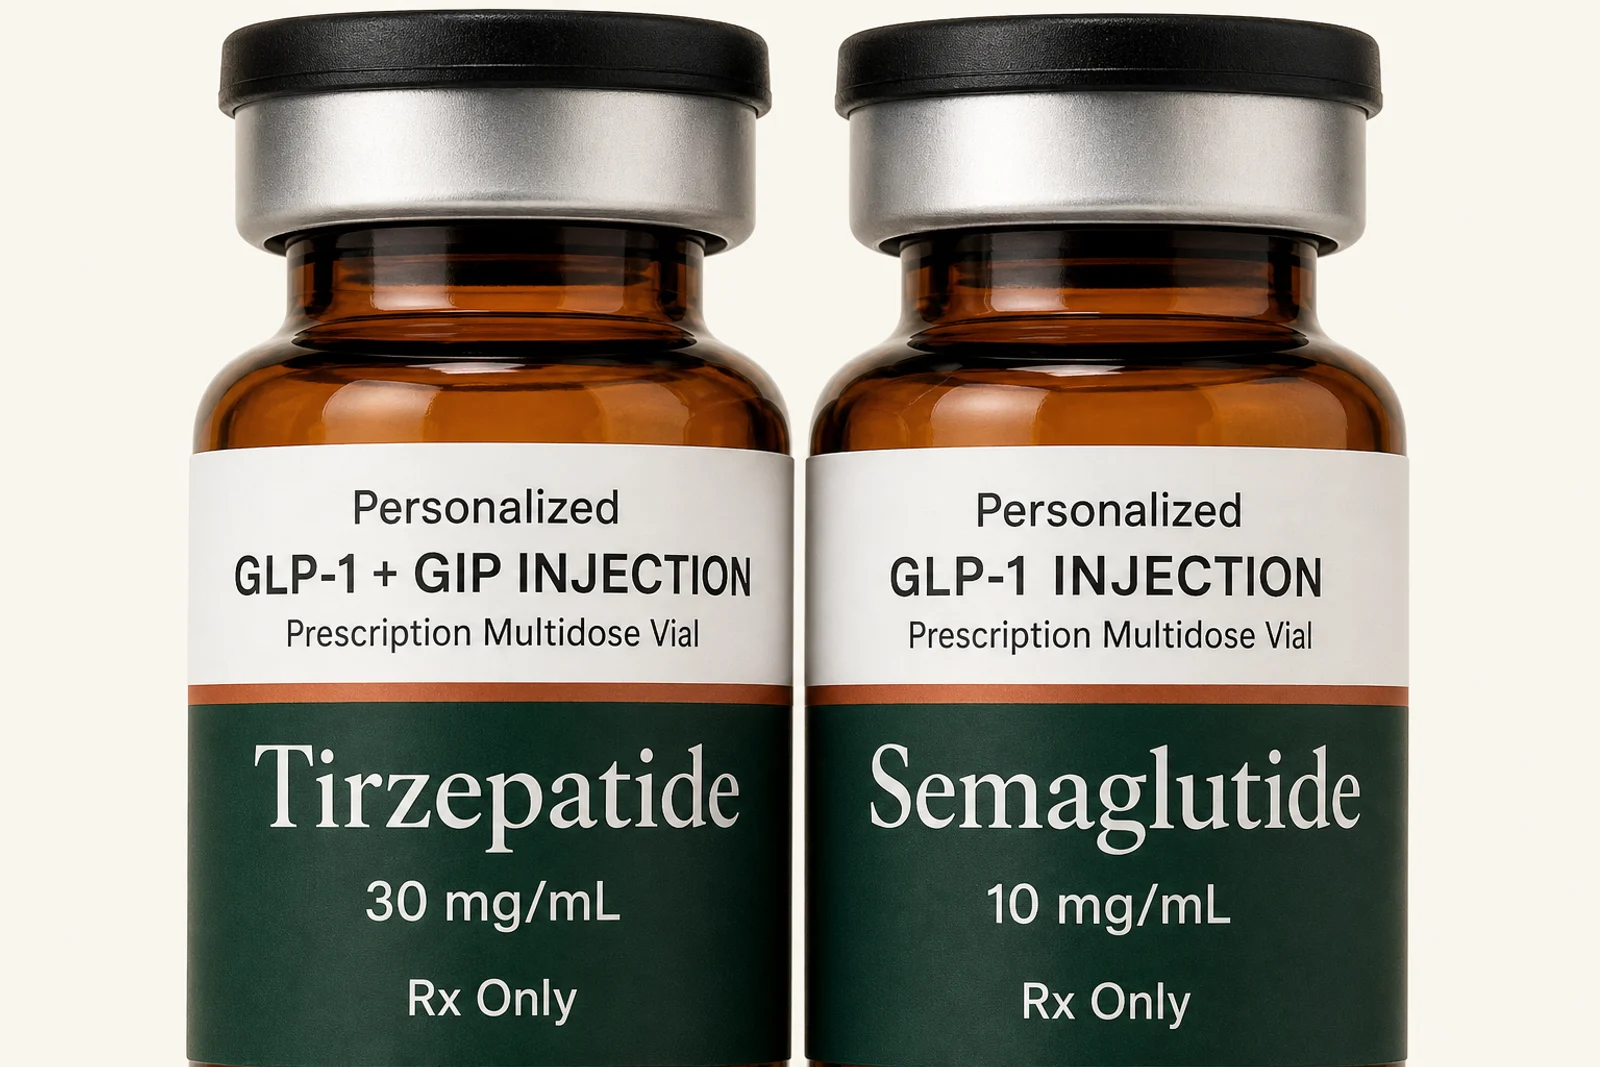
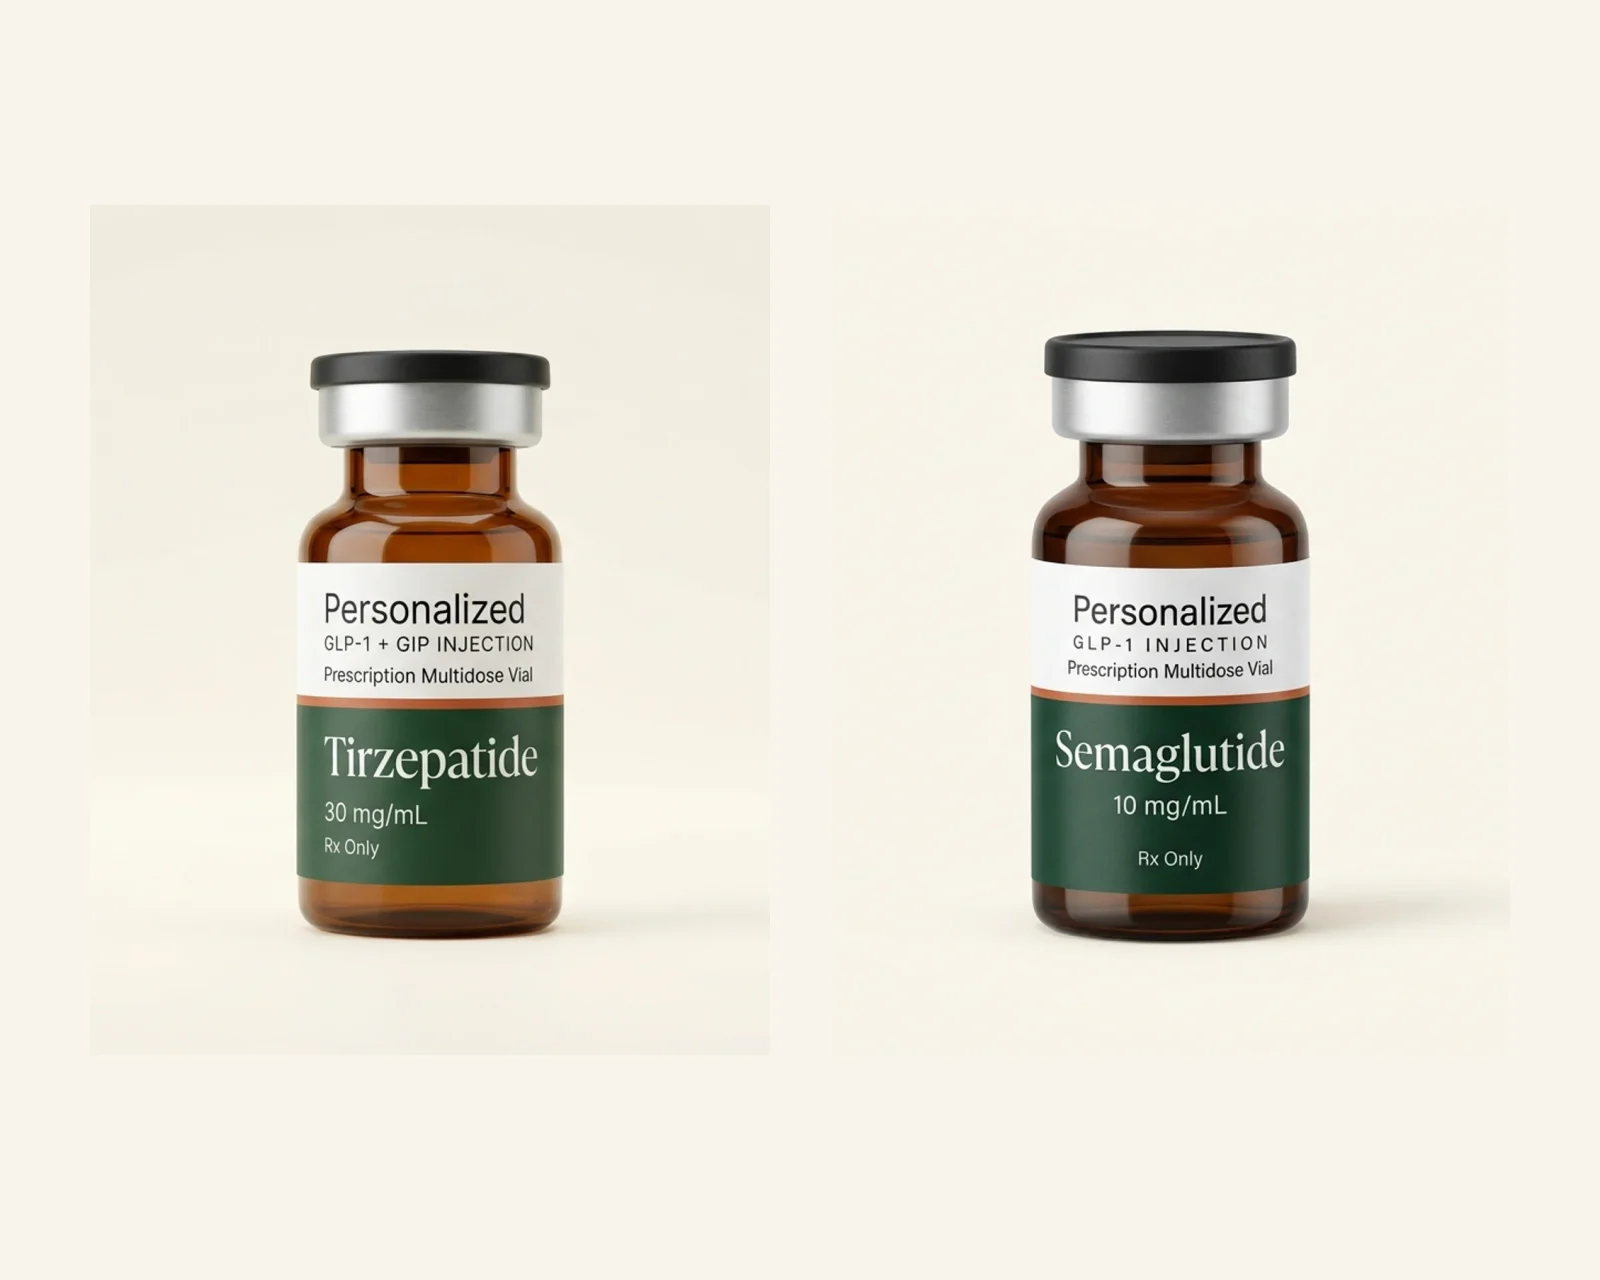
Show the full protocol vials, including the glass bases.

diff --git a/src/styles/yucca-treatments-fidelity.css b/src/styles/yucca-treatments-fidelity.css
@@ -1443,11 +1443,11 @@
   display: block !important;
   width: min(28rem, 100%) !important;
   max-width: 28rem !important;
-  aspect-ratio: 3 / 2 !important;
+  aspect-ratio: auto !important;
   height: auto !important;
   min-height: 0 !important;
   margin-top: 1.5rem !important;
-  padding: 0 !important;
+  padding: 0.65rem 0.45rem 0.85rem !important;
   background: #f7f4ec !important;
   border-radius: 1.25rem !important;
   overflow: hidden !important;
@@ -1456,7 +1456,7 @@
 .yx-clone [data-explore-section-stack='weight-loss'] .retro-protocol__vials--cover img {
   display: block !important;
   width: 100% !important;
-  height: 100% !important;
+  height: auto !important;
   max-height: none !important;
   object-fit: contain !important;
   object-position: center center !important;

diff --git a/src/styles/pax-wl-mobile.css b/src/styles/pax-wl-mobile.css
@@ -91,13 +91,13 @@
   .yx-clone [data-explore-section-stack='weight-loss'] .retro-protocol__vials--cover {
     width: 100% !important;
     max-width: none !important;
-    aspect-ratio: 4 / 3 !important;
+    aspect-ratio: auto !important;
     overflow: hidden !important;
   }
 
   .yx-clone [data-explore-section-stack='weight-loss'] .retro-protocol__vials--cover img {
     width: 100% !important;
-    height: 100% !important;
+    height: auto !important;
     object-fit: contain !important;
     object-position: center center !important;
   }

diff --git a/src/marketing/TreatmentsExplore.jsx b/src/marketing/TreatmentsExplore.jsx
@@ -10,7 +10,7 @@ const WL_VIALS = {
   tirz: '/images/vials/tirz.webp?v=amber1',
   together: '/images/vials/together.webp?v=amber1',
   hero: '/images/vials/together-hero.webp?v=amber2',
-  protocol: '/images/vials/protocol-cover.webp?v=cover1',
+  protocol: '/images/vials/protocol-cover.webp?v=cover2',
 };
 const WL_FAQ_PHOTO = '/images/faq-portrait.webp?v=faq1';
 

diff --git a/src/styles/pax-protocol.css b/src/styles/pax-protocol.css
@@ -291,7 +291,7 @@
   .yx-clone [data-explore-section-stack='weight-loss'] .retro-protocol__vials--cover {
     width: 100% !important;
     max-width: none !important;
-    aspect-ratio: 4 / 3 !important;
+    aspect-ratio: auto !important;
     margin-top: 0.35rem !important;
     margin-bottom: 0.25rem !important;
     border-radius: 1rem !important;

diff --git a/public/sw.js b/public/sw.js
@@ -1,4 +1,4 @@
-const CACHE_NAME = 'pax-cache-v19';
+const CACHE_NAME = 'pax-cache-v20';
 const PRECACHE_URLS = [
   '/brand/pax-horizontal.svg',
   '/brand/pax-monogram.svg',
